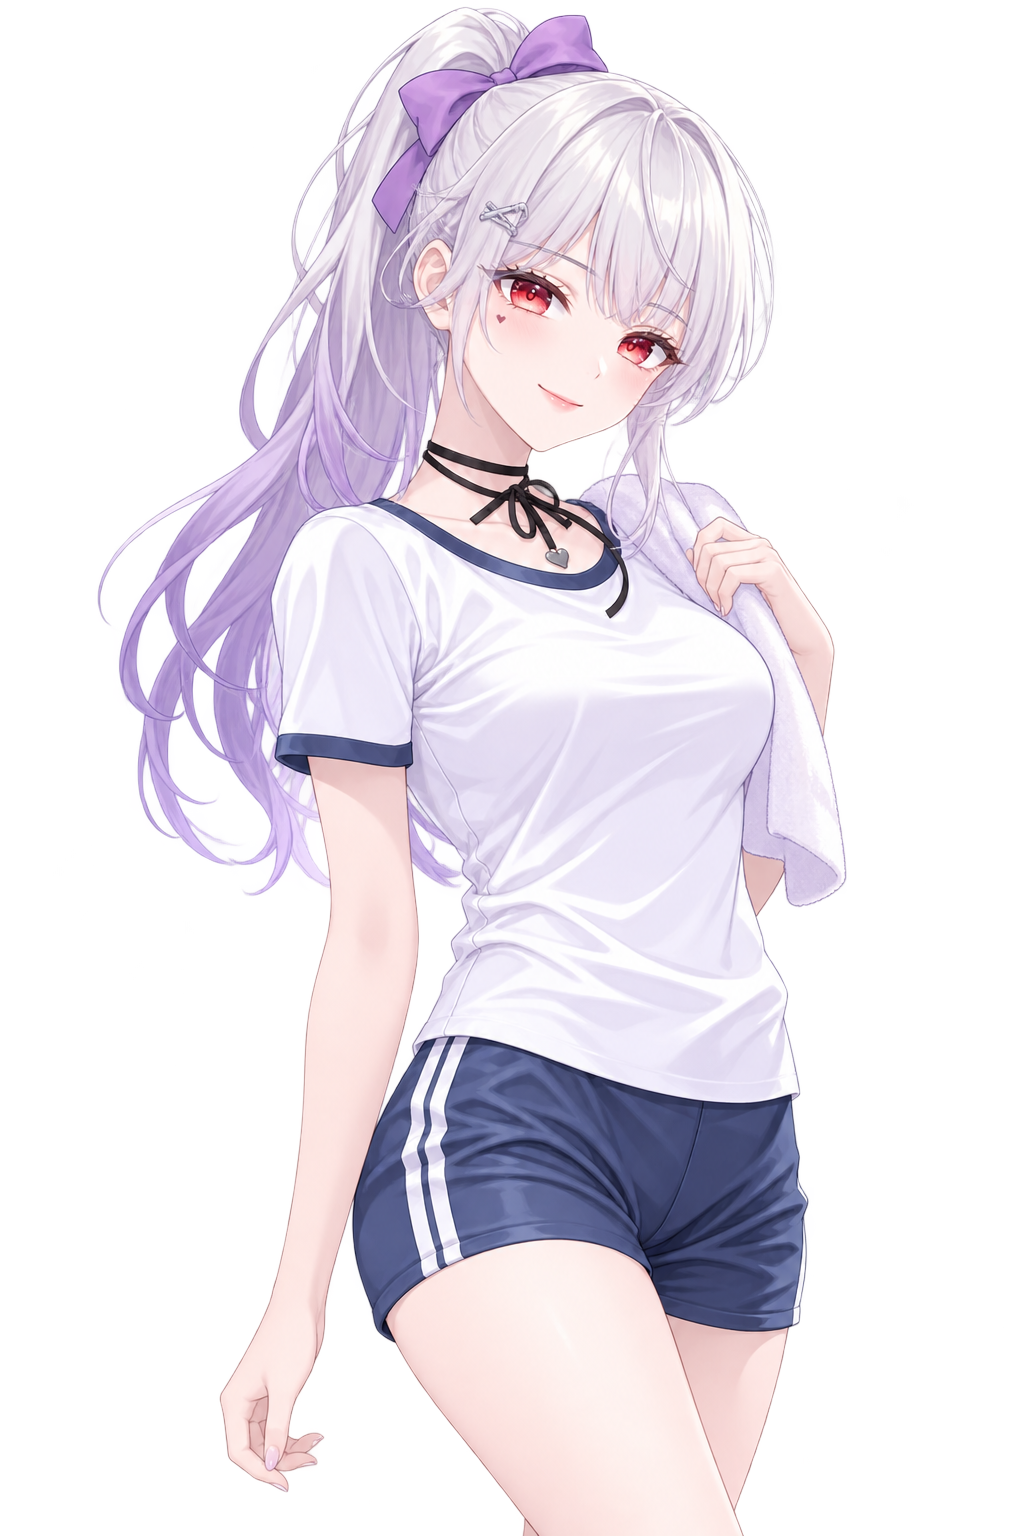
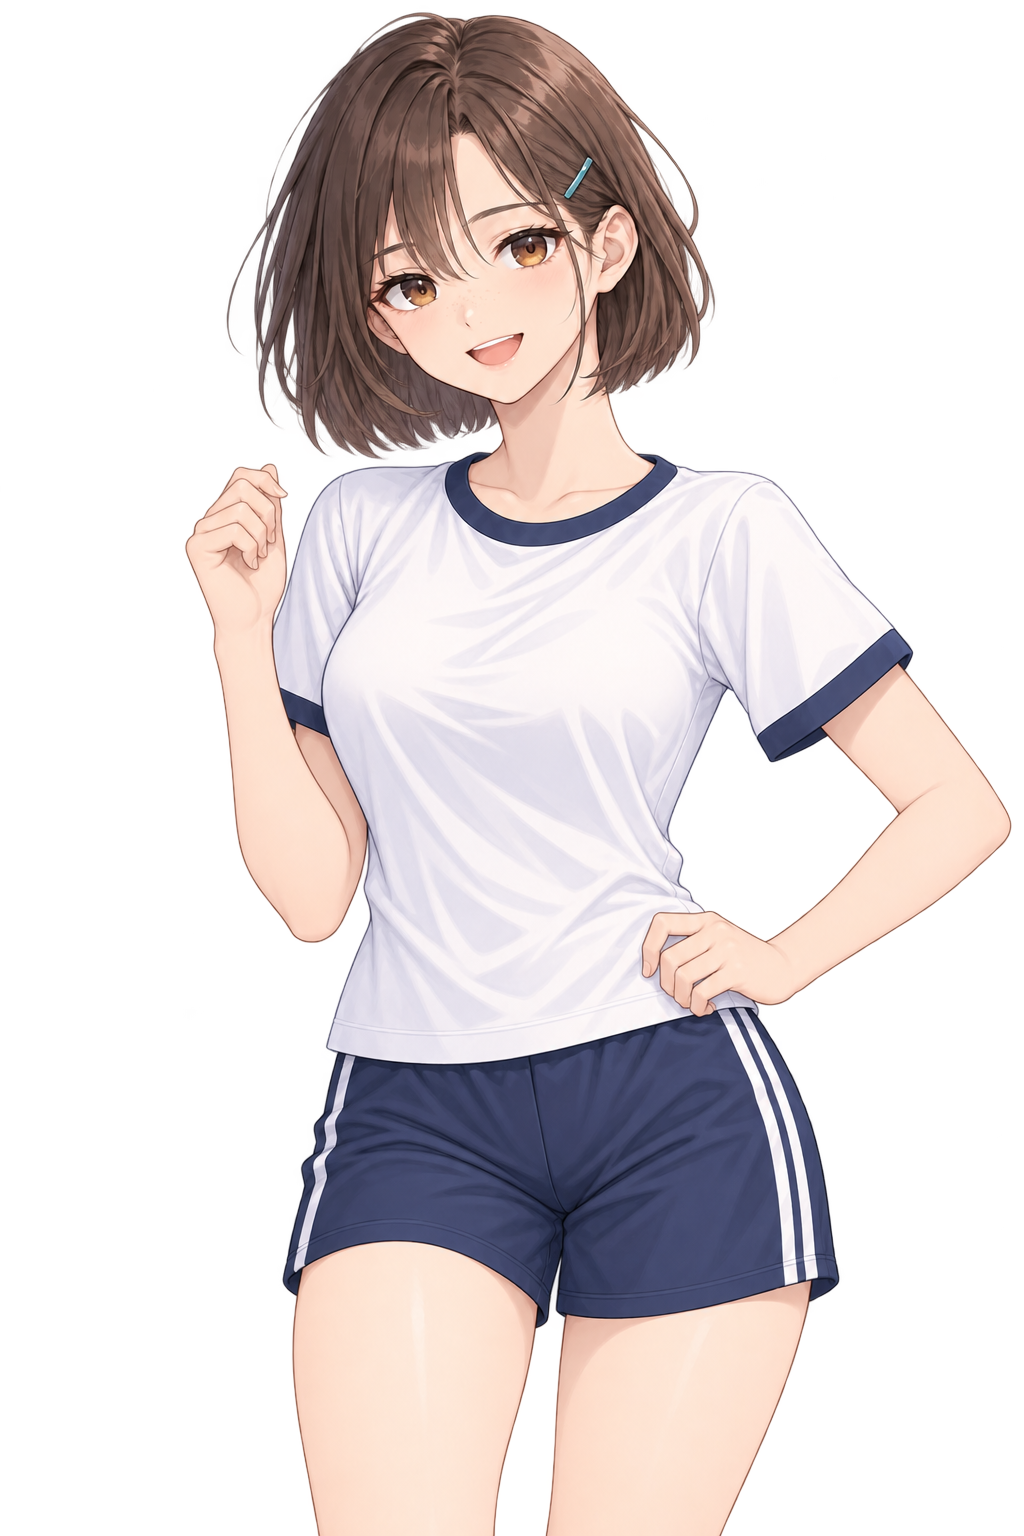
체육복 스탠딩 일러스트 교체

diff --git a/docs/illustration-replacement-prompts.md b/docs/illustration-replacement-prompts.md
@@ -61,7 +61,7 @@ CG는 공통 CG 블록과 파일별 장면 프롬프트를 이어 붙인다. 무
 
 ### 학교 체육복 G 세트
 
-의상 블록: 흰색 반소매 체육복 상의에 남색 목·소매 배색, 무릎 가까이 오는 남색 운동 반바지, 흰 운동화. 체형을 강조하지 않는 편안한 운동복, 인쇄·팀 로고 없음.
+의상 블록: 흰색 반소매 체육복 상의에 남색 목·소매 배색, 허리선까지 내려오는 깔끔한 슬림 핏. 남색 운동 반바지는 허벅지 중간 길이의 단정한 운동용 핏으로 하고 흰색 측면 줄 두 개를 넣는다. 상의와 하의는 헐렁하거나 풍성하지 않게 몸에 자연스럽게 맞추되, 과하게 조이거나 가슴·엉덩이·허벅지 윤곽을 강조하지 않는다. 노출 없는 불투명한 운동복, 흰 운동화, 인쇄·팀 로고 없음.
 
 | 파일 | 개별 표정·포즈 프롬프트 |
 |---|---|
